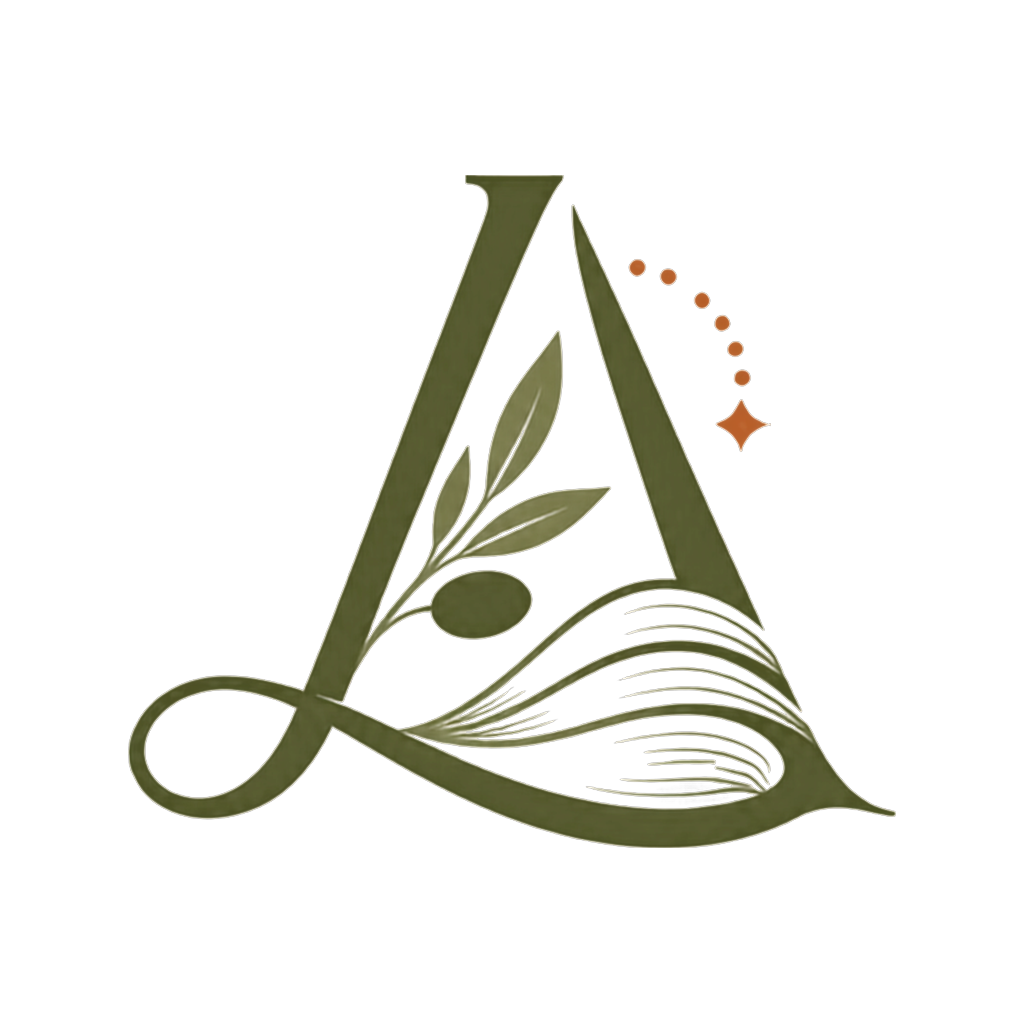
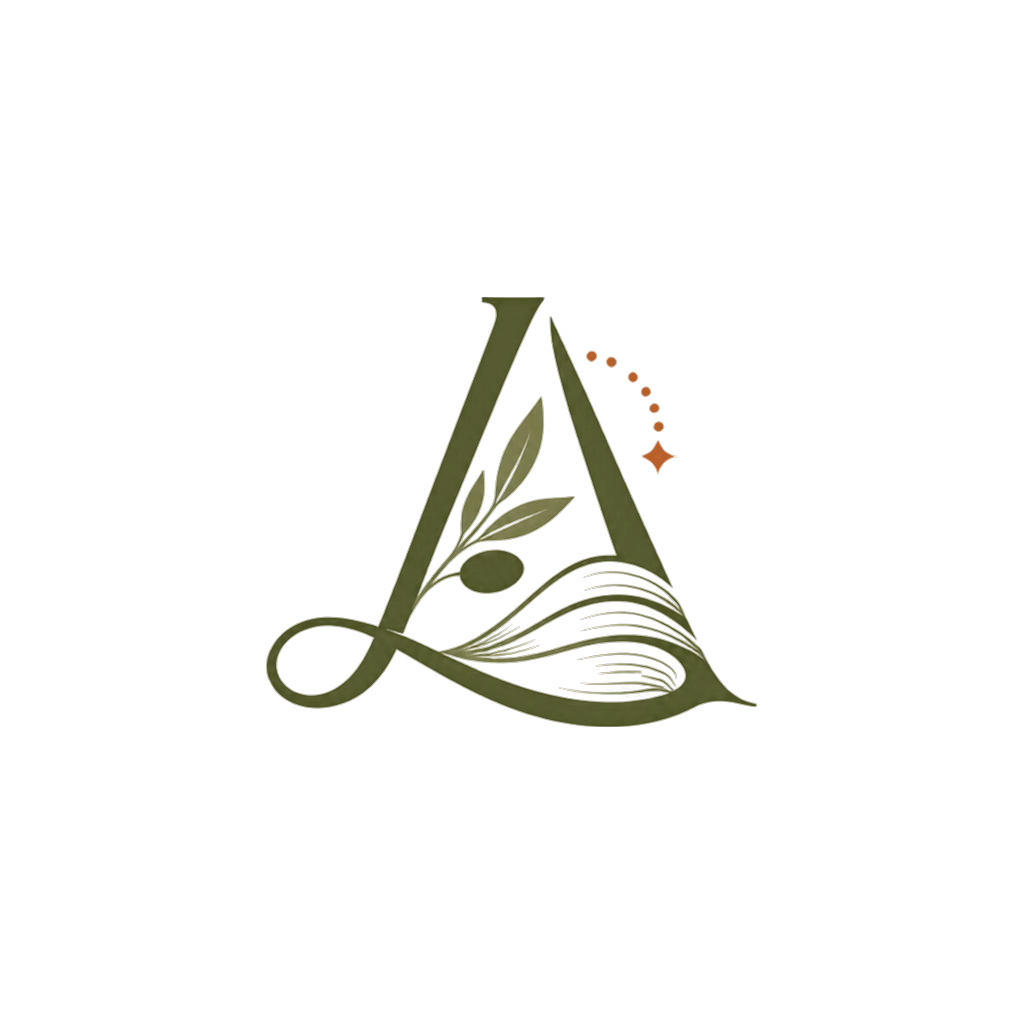
fix(marka): perde ve ikon artık KIRPILMIYOR — ve doğrulama ölçütü değişti (21.116)
Kullanıcı cihazda gördü: "benim cihazımda da kırpılıyor ama???" Haklıydı.

İKİ HATA, İKİSİ DE BENİM:

1) "API 30'da androidx uyum katmanı maskelemez" DENDİ VE YANLIŞTI. androidx'in
   kendi kaynağı aksini yazıyor (compat_splash_screen_no_icon_background.xml):
   "We mask the outer bounds of the icon like we do on Android 12". Google'ın
   belgesi de aynı: "the core SplashScreen library brings the Android 12 splash
   screen to all devices from API 23". Cihazda ölçüldü (Android 11): görünen
   daire ≈ 191 dp.

2) CİHAZ TURU KIRPMAYI GÖSTERMİŞTİ, GÖZDEN KAÇTI. 280 dp'lik derlemenin ekran
   görüntüsü alınmış, yalnız işaretin BOYU ölçülmüş, bütünlüğü hiç
   karşılaştırılmamıştı. Ölçüt basitmiş: kaynak sanatın oranı 1,141
   (2377×2083); ekrandaki oran 0,85 çıkıyordu. KIRPILMIŞ BİR GÖRÜNTÜNÜN ORANI
   SAPAR. "Büyük görünüyor" bir doğrulama değildir; bundan sonra perde/ikon
   doğrulaması bu karşılaştırmayı içerecek (kalıcı kayıt: assets/brand/README).

PERDE 164 dp: üretilen çizimde tüm mürekkebin çapı 191,5 dp — Google'ın
"288×288 dp, fit within a circle 192 dp in diameter" sınırının yarım dp altında.
İkon zemini kullanmıyoruz, o yüzden cömert olan 288/192 geçerli (zeminli hâlde
240/160'a düşerdi).

İKON %75 → %48 (kullanıcı kararı: "hiçbir şey kesilmesin"). %50 önerilmişti ama
ölçüm güvenli bölgeyi 2 puan aştığını gösterdi (%63,4 > %61,1) → %48. Kurulu
paketten ölçüldü: ic_launcher_foreground ve _monochrome mürekkep çapı 64,0 dp,
[…]

Changed region(s): [[0.125, 0.1562, 0.875, 0.8438], [0.6562, 0.2812, 0.7188, 0.3438]]

diff --git a/apps/mobile/app.config.ts b/apps/mobile/app.config.ts
@@ -159,14 +159,23 @@ const config: ExpoConfig = {
           ise Android'in. Önceki değer 76 dp'ydi: cihazda ölçüldü, 408 yoğunlukta ekran 423 dp geniş,
           yani işaret genişliğin yalnız %18'i kalıyordu. Şimdi %40 — 2,2 katı.
 
-          ── NEDEN 280 DEĞİL, VE BUNU CİHAZ TESTİ YAKALAYAMAZDI ────────────────────────────────
-          Bir tur 280 yazıldı ve elimizdeki telefonda kusursuz göründü. Sebebi yanıltıcıydı: cihaz
-          **Android 11 (API 30)** ve o sürümde androidx kendi UYUM katmanını çiziyor
-          (`compat_splash_screen.xml`), maske uygulamıyor. Oysa Expo Android 12'nin splash API'sini
-          bildiriyor (`windowSplashScreenAnimatedIcon`) ve **API 31+ maskeliyor**: Google'ın deyişiyle
-          *"as with adaptive icons, one-third of the foreground is masked"* — ikon zemini yoksa tuval
-          288 dp, **görünen daire 192 dp**. 280 dp'de mürekkep 257 dp'ye çıkıyordu, yani Android 12+
-          cihazların hepsinde kırpılırdı ve bizim telefonumuz bunu hiç göstermezdi.
+          ── NEDEN 280 DEĞİL: MASKE HER SÜRÜMDE VAR ───────────────────────────────────────────
+          Bir tur 280 yazıldı. Perde işareti **kırpılıyor** — kullanıcı cihazda gördü ve söyledi.
+          Sebep: Expo Android 12'nin splash API'sini bildiriyor (`windowSplashScreenAnimatedIcon`) ve
+          işaret maskeleniyor — Google'ın deyişiyle *"as with adaptive icons, one-third of the
+          foreground is masked"*; ikon zemini yoksa tuval 288 dp, **görünen daire 192 dp**.
+          280 dp'de mürekkep 257 dp'ye çıkıyordu, yani daireyi taşıyordu.
+
+          **MASKE API 31'DEN ÖNCE DE VAR** — bir tur "API 30'da uyum katmanı maskelemez" diye yazıldı
+          ve YANLIŞTI. androidx'in kendi kaynağı bunu açıkça söylüyor
+          (`compat_splash_screen_no_icon_background.xml`): *"We mask the outer bounds of the icon
+          **like we do on Android 12**."* Cihazda ölçüldü (Android 11): görünen daire ≈ **191 dp**.
+
+          ── VE CİHAZ TURU BUNU GÖSTERMİŞTİ, GÖZDEN KAÇTI ─────────────────────────────────────
+          280'lik derlemenin ekran görüntüsü alınmıştı ve kırpma ORADAYDI; yalnız işaretin BOYU
+          ölçülüp bütünlüğü karşılaştırılmadı. Ölçüt basitmiş: kaynak sanatın oranı **1,141**
+          (2377×2083), ekrandaki oran **0,85** — kırpılmış bir görüntünün oranı sapar. Bundan sonra
+          perde/ikon doğrulaması bu karşılaştırmayı içermeli.
 
           ── SINIR ÖLÇÜLEREK BULUNDU ───────────────────────────────────────────────────────────
           Mürekkebin merkezden en dış uzaklığı sanat genişliğinin %61,7'si (köşelerde kıvılcım,

diff --git a/docs/build/21-mobil-uygulama.md b/docs/build/21-mobil-uygulama.md
@@ -5647,15 +5647,23 @@ için bilinçli ayrı klasör). Kullanıcı buradan ara ara bakıp uygulamanın 
   ekran **423 dp** geniş — 76 dp, genişliğin yalnız **%18'i** demekti. Şimdi %40, yani 2,2 katı.
   Kaynak da 512² → **1024²** büyütüldü (164 dp xxxhdpi'de 656 px eder).
 
-  **ARA BİR DEĞER YANLIŞTI VE CİHAZ TESTİ ONU YAKALAYAMAZDI — kaydı burada duruyor.** Önce 280 dp
-  yazıldı ve elimizdeki telefonda kusursuz göründü. Kullanıcı sordu (*"splash screen'de öyle bir
-  zorunluluk yok diye biliyorum"*), araştırıldı ve ölçüldü: Expo **Android 12'nin splash API'sini**
-  bildiriyor (`windowSplashScreenAnimatedIcon`) ve **API 31+ maskeliyor** — *"as with adaptive icons,
-  one-third of the foreground is masked"*; ikon zemini yoksa tuval 288 dp, görünen daire **192 dp**.
-  Test cihazı **Android 11 (API 30)** ve o sürümde androidx kendi UYUM katmanını çiziyor
-  (`compat_splash_screen.xml`), maskelemiyor. Yani 280 dp Android 12+ cihazların hepsinde kırpılırdı
-  (mürekkep 257 dp) **ve bizim doğrulamamız bunu hiç gösteremezdi.** Sınır ölçülerek bulundu:
-  164 dp → üretilen çizimde tüm mürekkebin çapı **191,5 dp** (izin verilen 192).
+  **ARA BİR DEĞER YANLIŞTI — VE ASIL DERS DEĞERDE DEĞİL, DOĞRULAMADA.** Önce 280 dp yazıldı ve
+  işaret cihazda **kırpıldı**: sol ilmik ve sağ süpürme gitti, "A"nın tepesi kesildi. Sebep:
+  Expo Android 12'nin splash API'sini bildiriyor (`windowSplashScreenAnimatedIcon`) ve işaret
+  maskeleniyor — *"as with adaptive icons, one-third of the foreground is masked"*; ikon zemini
+  yoksa tuval 288 dp, görünen daire **192 dp**. 280 dp'de mürekkep 257 dp'ye çıkıyordu.
+
+  **BİR TUR "API 30'DA UYUM KATMANI MASKELEMEZ" DENDİ VE YANLIŞTI.** androidx'in kendi kaynağı
+  aksini yazıyor (`compat_splash_screen_no_icon_background.xml`): *"We mask the outer bounds of the
+  icon **like we do on Android 12**."* Cihazda ölçüldü (Android 11): görünen daire ≈ **191 dp**.
+
+  **VE CİHAZ TURU BUNU GÖSTERMİŞTİ, GÖZDEN KAÇTI.** 280'lik derlemenin ekran görüntüsü alınmıştı ve
+  kırpma oradaydı; yalnız işaretin BOYU ölçülüp bütünlüğü karşılaştırılmadı. Ölçüt basitmiş: kaynak
+  sanatın oranı **1,141** (2377×2083), ekrandaki oran **0,85**. **Kırpılmış bir görüntünün oranı
+  sapar** — perde/ikon doğrulaması bundan sonra bu karşılaştırmayı içermeli; *"büyük görünüyor"*
+  bir doğrulama değildir. Kalıcı kaydı `assets/brand/README.md`de.
+
+  Sınır ölçülerek bulundu: 164 dp → üretilen çizimde tüm mürekkebin çapı **191,5 dp** (izin verilen 192).
 
   **CİHAZDA DOĞRULANDI — repodaki dosyalar değil, TELEFONDAN GERİ ÇEKİLEN APK ölçüldü**
   (OPPO CPH1907, Wi-Fi, `adb pull` + kaynak pikselleri):
@@ -5686,8 +5694,12 @@ için bilinçli ayrı klasör). Kullanıcı buradan ara ara bakıp uygulamanın 
   Üç oran çizilip bakıldı — %54 (%0,1 kayıp, küçük) · **%75 (%15,4 kayıp, seçildi)** · %95
   (%35,8 kayıp, "A" kesiliyor). Yani **büyüklük ile kırpılmazlık bu kompozisyonda aynı anda
   sağlanamıyor**; karar büyüklükten yana verildi.
-  Ön katman ve tek renk **%60 → %75**; iOS ikonu **%78 → %88** (kavisli kare maskesi daireden
-  cömert). Gerekçe kalıcı olarak `assets/brand/README.md`de.
+  **BİR TUR %75 SEÇİLDİ, SONRA GERİ ALINDI.** Kırpma cihazda görülünce kullanıcı bütünlükten yana
+  karar verdi (*"%50'ye indir — hiçbir şey kesilmesin"*); ölçüm %50'nin de güvenli bölgeyi 2 puan
+  aştığını gösterdi (%63,4 > %61,1), o yüzden **%48**: mürekkebin çapı **65,8 dp**, Google'ın
+  **66 dp güvenli bölgesine** sığıyor — hiçbir OEM maskesinde kesilmiyor (daire ve kavisli kare
+  önizlemeleriyle doğrulandı). iOS ikonu **%78 → %88** (kavisli kare maskesi daireden cömert).
+  Gerekçe kalıcı olarak `assets/brand/README.md`de.
 
   **Bu iki değişiklik CİHAZDA DOĞRULANMADI** — kullanıcı yeniden derleme istemedi (*"fakat yeniden
   derlemeni istemiyorum"*). Yerel maske önizlemeleriyle bakıldı; telefonda görünmesi için bir
